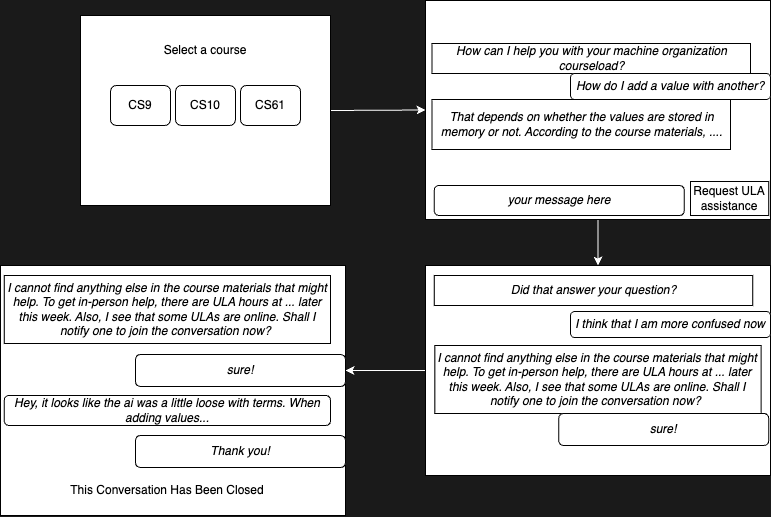
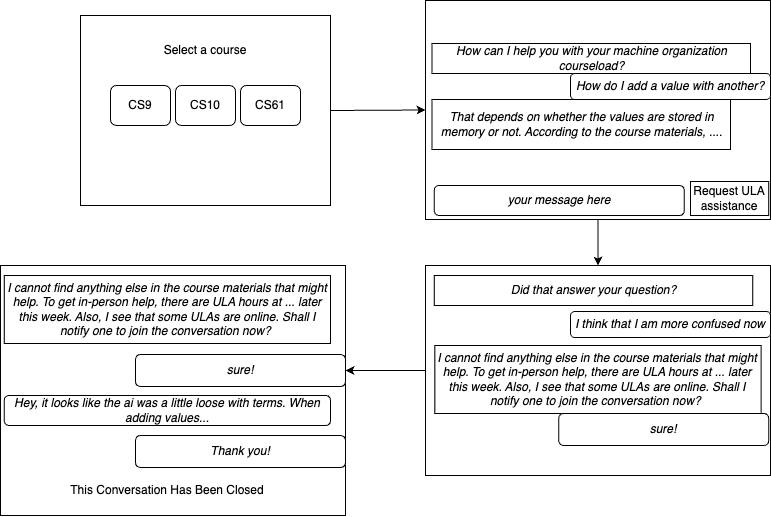
Added ER model

Changed region(s): [[0.0, 0.0, 1.0, 1.0]]

diff --git a/project-plan/README.md b/project-plan/README.md
@@ -2,7 +2,7 @@
 
 **Objective**: Develop a generative-AI-powered tutor with a web interface to answer student questions about course materials and logistics, with an ability to elevate to a human tutor for difficult questions and an ability to compose reports from tutor-student interactions.
 
-**Technology Keywords**: *Retreival Augmented Generation, Language Model, Web Development, Data Management, API Integration.*
+**Keywords**: *Retreival Augmented Generation, Language Model, Web Development, Data Management, API Integration.*
 
 ## Introduction
 Universities across the nation are integrating generative-AI into their pedagicial tool belts. Some have developed specialized generative-AI systems for more specialized use. For example,
@@ -30,6 +30,14 @@ We are to develop a chatbot system that has the following features:
 * The system should be able to generate a report for the instructor across all interactions to learn what students needed help with for any given course.
 
 
+### Interaction Diagram
 Here is how an interaction might go for a student using the chatbot.
 
 ![student-interaction-flowchart](student-interaction.png)
+
+
+## Database Schema
+
+Refer the the following Entity Relationship (ER) diagram. Rectangles are entities, diamonds are relationships, and ovals are attributes. All of the attributes for each entity and relation are not included and this diagram only gives a rough estimate of what our final schema may be. An arrow indicates a one-to-many relation, where the arrow points to the "one".
+
+![database-schema](data-model.png)
